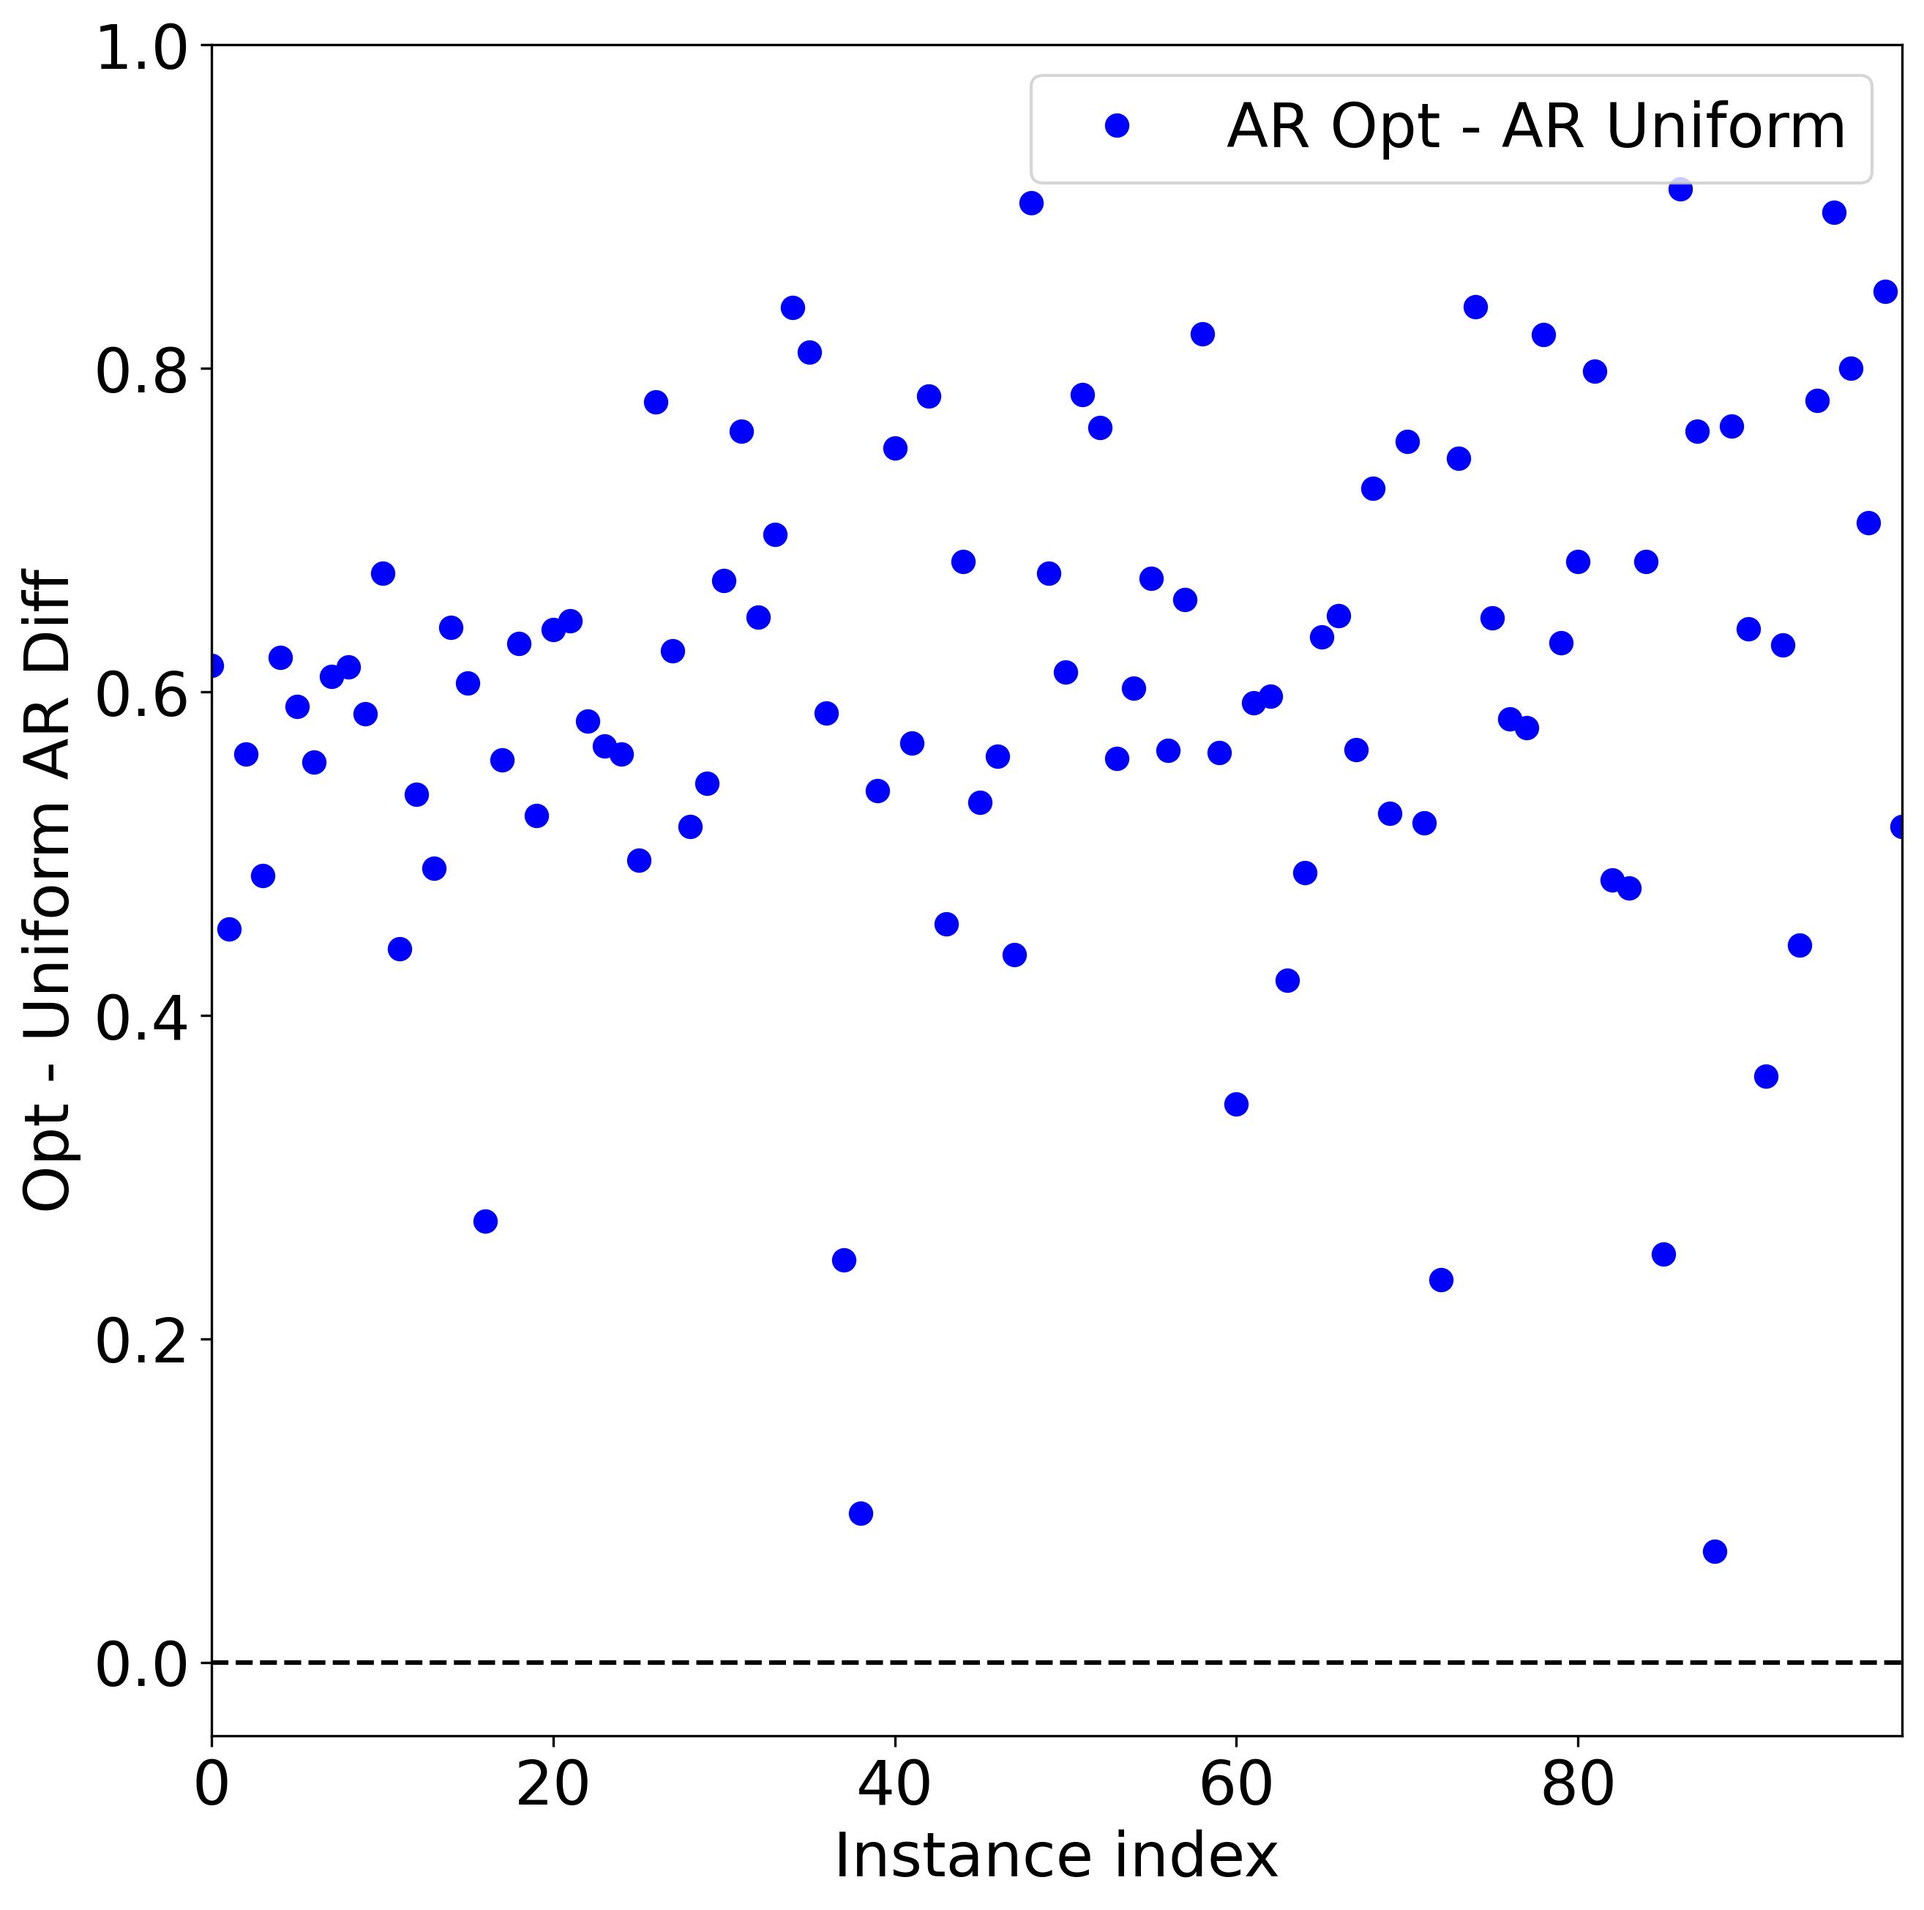
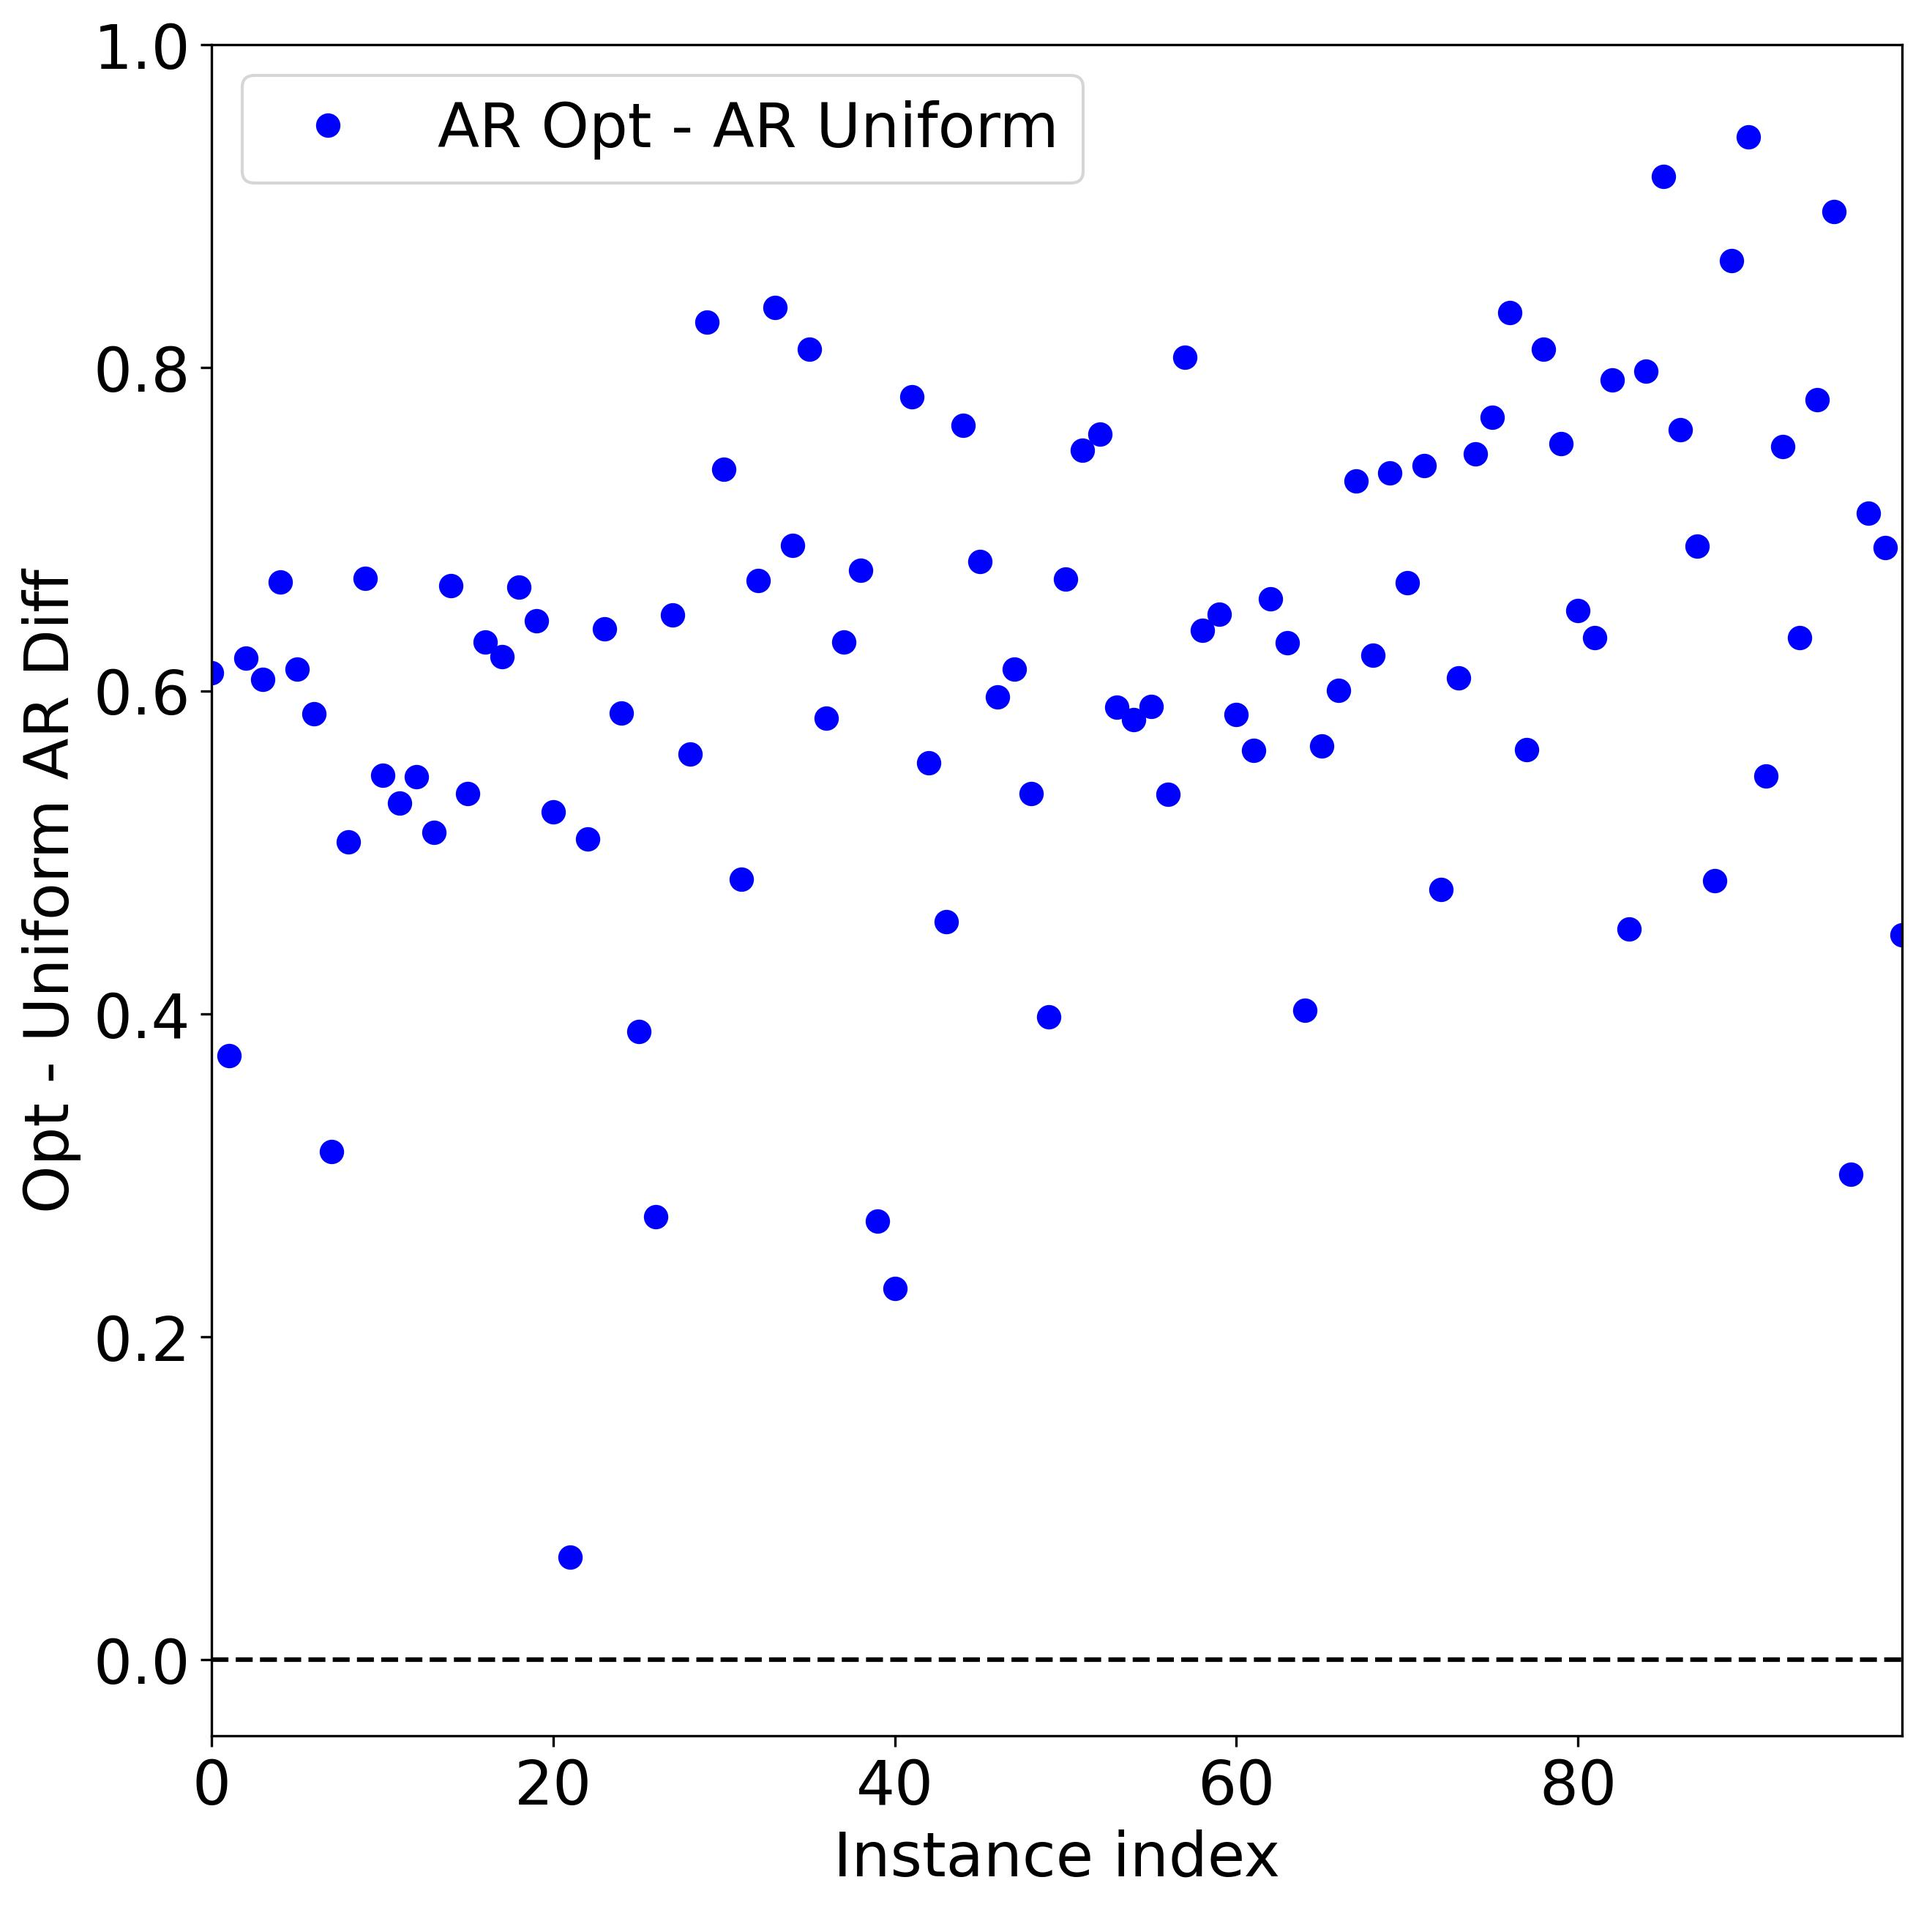
Returns random initial angles

diff --git a/src/PowerFlowSolver.py b/src/PowerFlowSolver.py
@@ -396,8 +396,8 @@ class HybridSolver(PowerFlowSolver):
         num_bitstrings = 2 ** len(problem.generators)
 
         if initial_angles is None:
-            # initial_angles = random.default_rng(self.seed).uniform(-np.pi, np.pi, len(self.vqp.circuit.parameters))
-            initial_angles = np.array([{"G": 0.1, "B": -0.1}[parameter.name[0]] for parameter in self.vqp.circuit.parameters])
+            initial_angles = random.default_rng(self.seed).uniform(-np.pi, np.pi, len(self.vqp.circuit.parameters))
+            # initial_angles = np.array([{"G": 0.1, "B": -0.1}[parameter.name[0]] for parameter in self.vqp.circuit.parameters])
             # initial_angles = np.zeros(len(self.vqp.circuit.parameters))
         active_cost = get_cost_inverse
 
